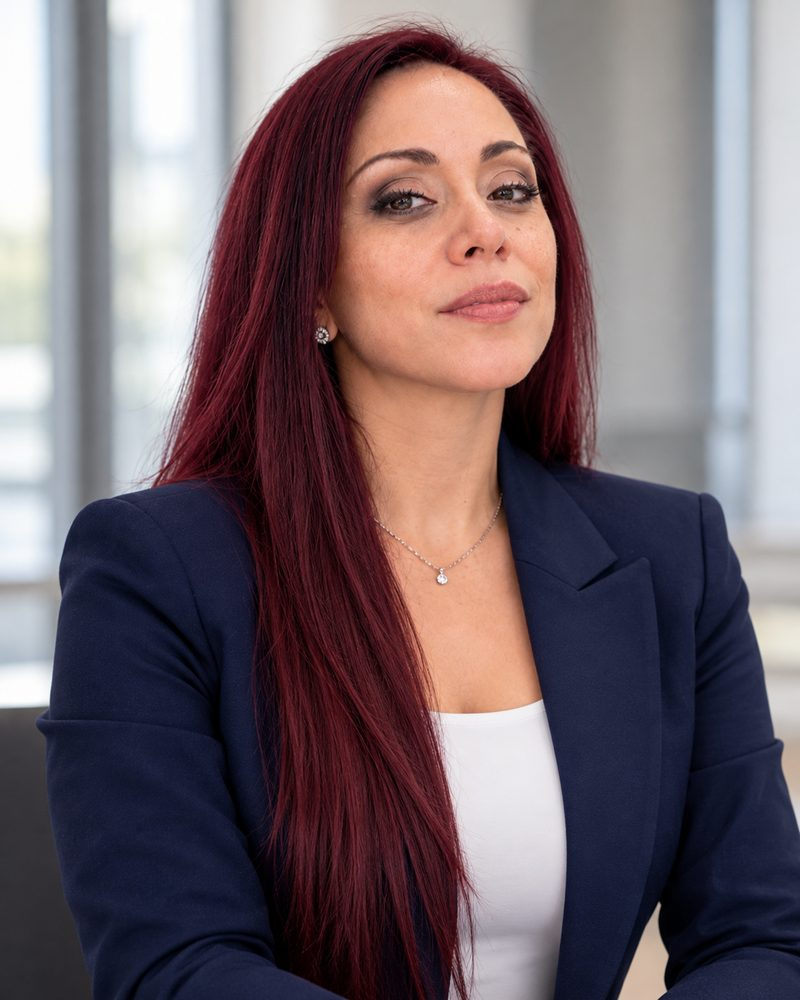
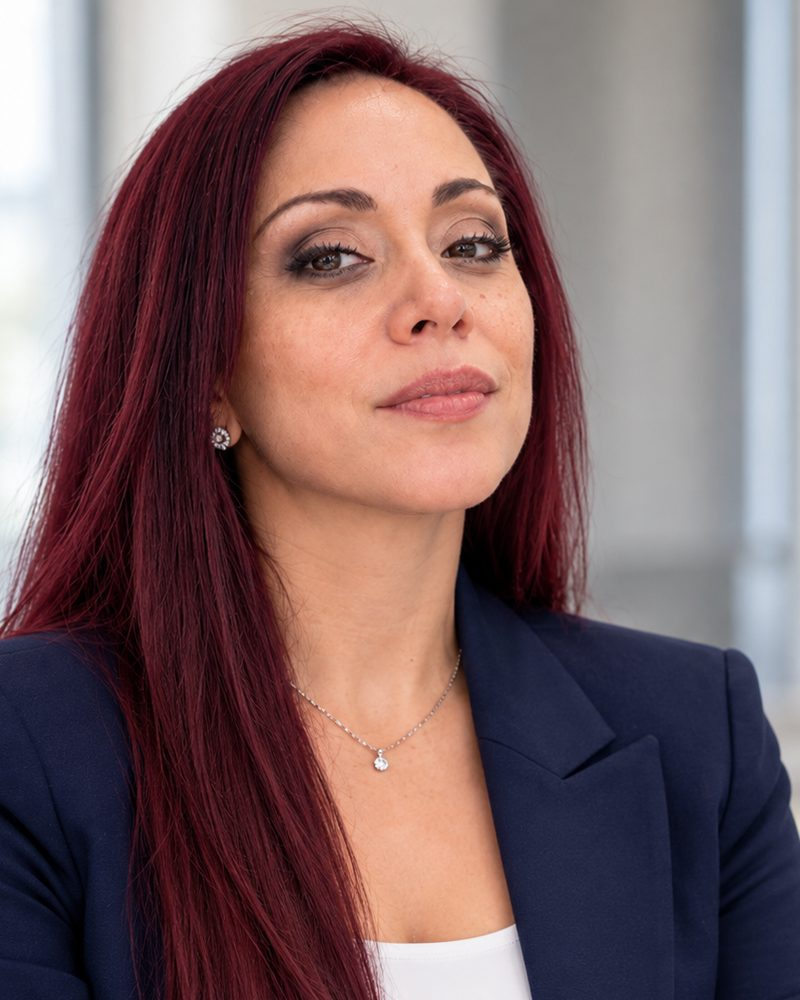
Agrega foto de Hugo y ajusta encuadre de Nora
Claude-Session: https://claude.ai/code/session_01Gh73bEBMnTCtScv9YWYuW7

diff --git a/index.html b/index.html
@@ -275,7 +275,7 @@
       </header>
       <div class="socios">
         <article class="socio">
-          <div class="foto">Fotografía de Hugo<br>(retrato vertical)</div>
+          <img class="retrato" src="fotos/hugo.jpg" width="800" height="1000" alt="Hugo González, socio de (L)EGAL" loading="lazy">
           <h3>Hugo González</h3>
           <p class="cargo">Socio · Amparo, derecho administrativo y litigio civil</p>
           <p>Licenciado en Derecho por la Universidad La Salle y maestro en Amparo. Desarrolla una investigación doctoral en Derecho en el Centro de Estudios Jurídicos Carbonell. Tiene estudios en economía (El Colegio de México), filosofía y derecho financiero internacional.</p>
